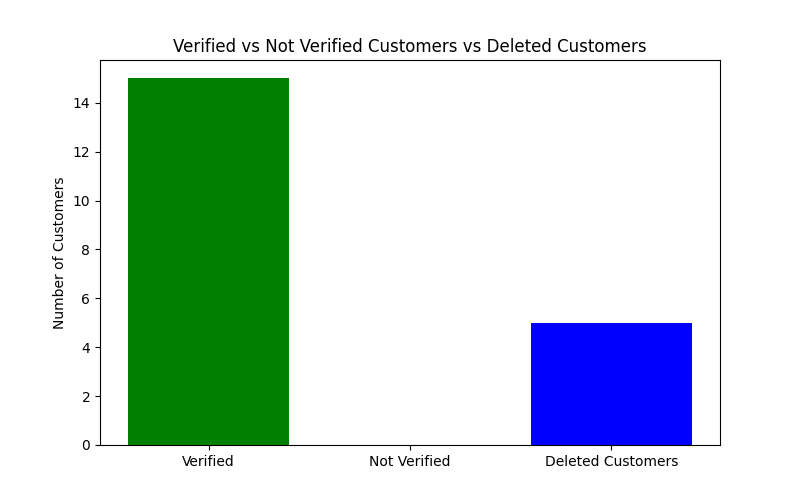
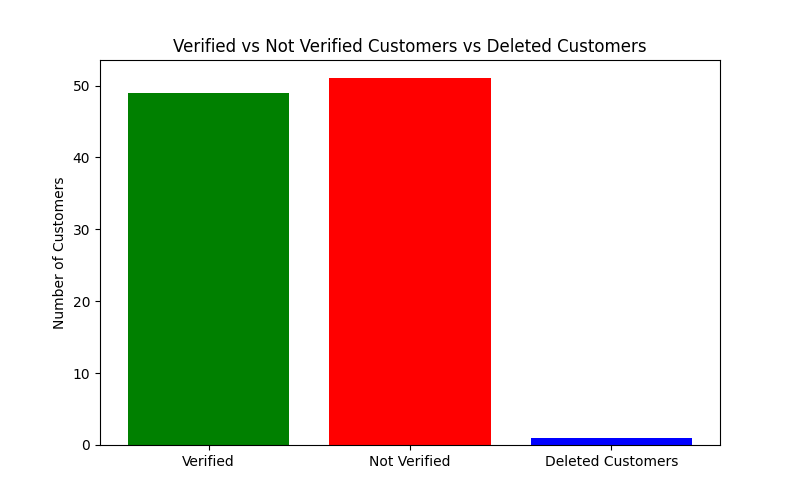
commit

diff --git a/templates/home.html b/templates/home.html
@@ -1,0 +1,53 @@
+{% extends 'base.html' %}
+
+{% block title %}Home{% endblock %}
+
+{% block content %}
+<div class="mt-5 text-center">
+    <h1>Welcome to  A-Z Household Services</h1>
+    <p class="lead mt-3">Your one-stop solution for connecting customers with skilled service professionals!</p>
+</div>
+
+<div class="container mt-5">
+    <div class="row">
+        
+        <div class="col-md-6">
+            <div class="card shadow">
+                <img src="{{ url_for('static', filename='images/customer.jpg') }}" class="card-img-top" alt="Customers">
+                <div class="card-body">
+                    <h4 class="card-title">For Customers</h4>
+                    <ul class="list-group list-group-flush">
+                        <li class="list-group-item">Find trusted service professionals near you.</li>
+                        <li class="list-group-item">Book appointments with ease.</li>
+                        <li class="list-group-item">Track and manage your service requests.</li>
+                        <li class="list-group-item">Rate and review service professionals.</li>
+                    </ul>
+                </div>
+            </div>
+        </div>
+
+        
+        <div class="col-md-6">
+            <div class="card shadow">
+                <img src="{{ url_for('static', filename='images/professional.jpg') }}" class="card-img-top" alt="Professionals">
+                <div class="card-body">
+                    <h4 class="card-title">For Professionals</h4>
+                    <ul class="list-group list-group-flush">
+                        <li class="list-group-item">Get listed and connect with potential customers.</li>
+                        <li class="list-group-item">Manage your appointments seamlessly.</li>
+                        <li class="list-group-item">Grow your business with customer reviews.</li>
+                        <li class="list-group-item">Access detailed reports on your services.</li>
+                    </ul>
+                </div>
+            </div>
+        </div>
+    </div>
+</div>
+
+
+<div class="mt-5 text-end">
+    <a href="{{ url_for('admin_login') }}" class="text-decoration-none text-muted small">
+        Are you an admin? Log in here.
+    </a>
+</div>
+{% endblock %}

diff --git a/templates/summary.html b/templates/summary.html
@@ -4,7 +4,7 @@
 <div class="container mt-4">
     <h1 class="text-center">Summary Statistics</h1>
 
-    <div class="mt-4 ">
+    <div class="mt-4">
         <table class="table table-striped table-bordered">
             <thead>
                 <tr>
@@ -14,10 +14,23 @@
             </thead>
             <tbody>
                 {% for key, value in summary_data.items() %}
-                    <tr>
-                        <td>{{ key.replace('_', ' ').capitalize() }}</td>
-                        <td>{{ value }}</td>
-                    </tr>
+                    {% if key == 'requests_by_service' %}
+                        <tr>
+                            <td>Requests by Service</td>
+                            <td>
+                                <ul>
+                                    {% for item in value %}
+                                        <li>{{ item.service }}: {{ item.count }}</li>
+                                    {% endfor %}
+                                </ul>
+                            </td>
+                        </tr>
+                    {% else %}
+                        <tr>
+                            <td>{{ key.replace('_', ' ').capitalize() }}</td>
+                            <td>{{ value }}</td>
+                        </tr>
+                    {% endif %}
                 {% endfor %}
             </tbody>
         </table>
@@ -39,4 +52,3 @@
     </div>
 </div>
 {% endblock %}
-

diff --git a/templates/components/navbar.html b/templates/components/navbar.html
@@ -8,8 +8,7 @@
         <a class="navbar-brand" href="{{ url_for('customer_dashboard') }}">Welcome, Customer</a>
         {% elif session.get('role') == 'ServiceProfessional' %}
         <a class="navbar-brand" href="{{ url_for('professional_dashboard') }}">Welcome, Service Professional</a>
-        {% else %}
-        <a class="navbar-brand" href="{{ url_for('index') }}">Welcome</a>
+        
         {% endif %}
   
         <button class="navbar-toggler" type="button" data-bs-toggle="collapse" data-bs-target="#navbarSupportedContent" aria-controls="navbarSupportedContent" aria-expanded="false" aria-label="Toggle navigation">

diff --git a/templates/base.html b/templates/base.html
@@ -3,7 +3,7 @@
 <head>
     <meta charset="UTF-8">
     <meta name="viewport" content="width=device-width, initial-scale=1.0">
-    <title>Household Services App</title>
+    <title>A-Z Household Services</title>
     
     <link href="https://cdn.jsdelivr.net/npm/bootstrap@5.0.2/dist/css/bootstrap.min.css" rel="stylesheet" integrity="sha384-EVSTQN3/azprG1Anm3QDgpJLIm9Nao0Yz1ztcQTwFspd3yD65VohhpuuCOmLASjC" crossorigin="anonymous">
 </head>
@@ -19,7 +19,6 @@
         {% block content %}
         {% endblock %}
     </div>
-
 
     {% include 'components/footer.html' %}
     

diff --git a/templates/customer/view_services.html b/templates/customer/view_services.html
@@ -16,7 +16,7 @@
             <div class="card-body">
                 <h5 class="card-title">{{ service.name }}</h5>
                 <p class="card-text">{{ service.description }}</p>
-                <p><strong>Price:</strong> ${{ service.price }}</p>
+                <p><strong>Price:</strong> ₹{{ service.price }}</p>
                 <a href="{{ url_for('create_service_request') }}" class="btn btn-primary">Request Service</a>
             </div>
         </div>

diff --git a/templates/admin/manage_services.html b/templates/admin/manage_services.html
@@ -43,7 +43,7 @@
                     <tr>
                         <td>{{ service.id }}</td>
                         <td>{{ service.name }}</td>
-                        <td>${{ service.price }}</td>
+                        <td>₹{{ service.price }}</td>
                         <td>{{ service.description }}</td>
                         <td>{{ service.time_required }} mins</td>
                         <td>

diff --git a/templates/admin/add_edit_service.html b/templates/admin/add_edit_service.html
@@ -50,7 +50,7 @@
                 </div>
                 
                 <div class="mb-3">
-                    <label for="price" class="form-label">Price (in dollars)</label>
+                    <label for="price" class="form-label">Price (in Rupees)</label>
                     <input 
                         type="number" 
                         step="0.01" 

diff --git a/templates/components/header.html b/templates/components/header.html
@@ -1,6 +1,6 @@
 <header class="bg-primary text-white py-3">
     <div class="container">
-        <h1>Household Services</h1>
+        <h1>A-Z Household Services</h1>
         <p>Connecting Professionals with Customers</p>
     </div>
 </header>

diff --git a/templates/components/footer.html b/templates/components/footer.html
@@ -1,3 +1,3 @@
 <footer class="text-center mt-5 bg-light py-3">
-    <p>&copy; 2024 Household Services. All rights reserved.</p>
+    <p>&copy; 2024 A-Z Household Services. All rights reserved.</p>
 </footer>

diff --git a/backend/routes/auth.py b/backend/routes/auth.py
@@ -6,7 +6,7 @@ def auth_routes(app:Flask ):
          
         @app.route('/')
         def index():
-            return render_template('base.html')
+            return render_template('home.html')
 
         @app.route('/logout')
         def logout():
@@ -191,13 +191,14 @@ def auth_routes(app:Flask ):
                 flash("Invalid role or access denied.", "danger")
                 return redirect(url_for('index'))
 
+        
 
         def generate_admin_plots(summary_data):
             plot_files = []
             plot_folder = 'static/plots'
             os.makedirs(plot_folder, exist_ok=True)
 
-             
+            # Customers and Professionals Distribution Pie Chart
             admin_plot = 'user_professional_distribution.png'
             if os.path.exists(os.path.join(plot_folder, admin_plot)):
                 os.remove(os.path.join(plot_folder, admin_plot))   
@@ -210,35 +211,43 @@ def auth_routes(app:Flask ):
             plt.close()
             plot_files.append(admin_plot)
 
-             
+            # Customer Verification Status Bar Chart
             customer_verification_plot = 'customer_verification_status.png'
             if os.path.exists(os.path.join(plot_folder, customer_verification_plot)):
                 os.remove(os.path.join(plot_folder, customer_verification_plot))   
-            labels = ['Verified', 'Not Verified','Deleted Customers']
-            customer_counts = [summary_data['verified_customers'], summary_data['unverified_customers'],summary_data['deleted_customers']]
+            labels = ['Verified', 'Not Verified', 'Deleted Customers']
+            customer_counts = [
+                summary_data['verified_customers'],
+                summary_data['unverified_customers'],
+                summary_data['deleted_customers']
+            ]
             plt.figure(figsize=(8, 5))
-            plt.bar(labels, customer_counts, color=['green', 'red','blue'])
+            plt.bar(labels, customer_counts, color=['green', 'red', 'blue'])
             plt.title('Verified vs Not Verified Customers vs Deleted Customers')
             plt.ylabel('Number of Customers')
             plt.savefig(os.path.join(plot_folder, customer_verification_plot))
             plt.close()
             plot_files.append(customer_verification_plot)
 
-             
+            # Professional Verification Status Bar Chart
             professional_verification_plot = 'professional_verification_status.png'
             if os.path.exists(os.path.join(plot_folder, professional_verification_plot)):
                 os.remove(os.path.join(plot_folder, professional_verification_plot))   
-            labels = ['Verified', 'Not Verified','Deleted Professionals']
-            professional_counts = [summary_data['verified_professionals'], summary_data['unverified_professionals'],summary_data['deleted_professionals']]
+            labels = ['Verified', 'Not Verified', 'Deleted Professionals']
+            professional_counts = [
+                summary_data['verified_professionals'],
+                summary_data['unverified_professionals'],
+                summary_data['deleted_professionals']
+            ]
             plt.figure(figsize=(8, 5))
-            plt.bar(labels, professional_counts, color=['blue', 'orange','green'])
+            plt.bar(labels, professional_counts, color=['blue', 'orange', 'green'])
             plt.title('Verified vs Not Verified Professionals')
             plt.ylabel('Number of Professionals')
             plt.savefig(os.path.join(plot_folder, professional_verification_plot))
             plt.close()
             plot_files.append(professional_verification_plot)
 
-             
+            # Active vs Inactive Services Bar Chart
             service_status_plot = 'service_status_distribution.png'
             if os.path.exists(os.path.join(plot_folder, service_status_plot)):
                 os.remove(os.path.join(plot_folder, service_status_plot))   
@@ -252,7 +261,7 @@ def auth_routes(app:Flask ):
             plt.close()
             plot_files.append(service_status_plot)
 
-             
+            # Service Request Status Distribution Bar Chart
             request_status_plot = 'service_request_status_distribution.png'
             if os.path.exists(os.path.join(plot_folder, request_status_plot)):
                 os.remove(os.path.join(plot_folder, request_status_plot))   
@@ -261,7 +270,7 @@ def auth_routes(app:Flask ):
                 summary_data['completed_requests'],
                 summary_data['canceled_requests'],
                 summary_data['pending_requests'],
-                summary_data['assigned_requests'],
+                summary_data['assigned_requests']
             ]
             plt.figure(figsize=(10, 6))
             plt.bar(request_labels, request_counts, color=['green', 'red', 'orange', 'blue'])
@@ -271,9 +280,25 @@ def auth_routes(app:Flask ):
             plt.close()
             plot_files.append(request_status_plot)
 
-            return plot_files
+            # Service Counts Bar Chart
+            service_counts_plot = 'service_counts_distribution.png'
+            if os.path.exists(os.path.join(plot_folder, service_counts_plot)):
+                os.remove(os.path.join(plot_folder, service_counts_plot))   
+            service_data = summary_data['requests_by_service']
+            service_names = [item['service'] for item in service_data]
+            service_counts = [item['count'] for item in service_data]
+            plt.figure(figsize=(12, 6))
+            plt.bar(service_names, service_counts, color='teal')
+            plt.xticks(rotation=45, ha='right')
+            plt.title('Number of Requests per Service')
+            plt.ylabel('Number of Requests')
+            plt.xlabel('Services')
+            plt.tight_layout()  # Ensure labels fit in the plot area
+            plt.savefig(os.path.join(plot_folder, service_counts_plot))
+            plt.close()
+            plot_files.append(service_counts_plot)
 
-       
+            return plot_files
 
          
         def generate_customer_plots(summary_data):
@@ -314,12 +339,7 @@ def auth_routes(app:Flask ):
             plot_files.append(customer_summary_plot)
 
             return plot_files
-
-
-
-
-
-         
+        
         def generate_professional_plots(summary_data):
             plot_files = []
             plot_folder = 'static/plots'
@@ -354,6 +374,7 @@ def auth_routes(app:Flask ):
 
              
             if role == 'Admin':
+                
                 summary_data['total_customers'] = Customer.query.count()
                 summary_data['total_professionals'] = ServiceProfessional.query.count()
                 summary_data['total_services'] = Service.query.count()
@@ -393,6 +414,14 @@ def auth_routes(app:Flask ):
 
                  
                 summary_data['canceled_requests'] = ServiceRequest.query.filter(ServiceRequest.service_status == 'canceled').count()
+                
+                service_requests_count = db.session.query(
+                                                    Service.name, db.func.count(ServiceRequest.id)
+                                                ).join(ServiceRequest).group_by(Service.name).all()
+                
+                summary_data['requests_by_service'] = [
+                                    {"service": service_name, "count": count} for service_name, count in service_requests_count
+                                ]
 
                 plot_files = generate_admin_plots(summary_data)
 

diff --git a/app.py b/app.py
@@ -17,4 +17,4 @@ register_routes(app)
 if __name__ == "__main__":
     with app.app_context():
         db.create_all()
-    app.run(debug=True)
+    app.run(host='0.0.0.0',debug=True,port=5000)
